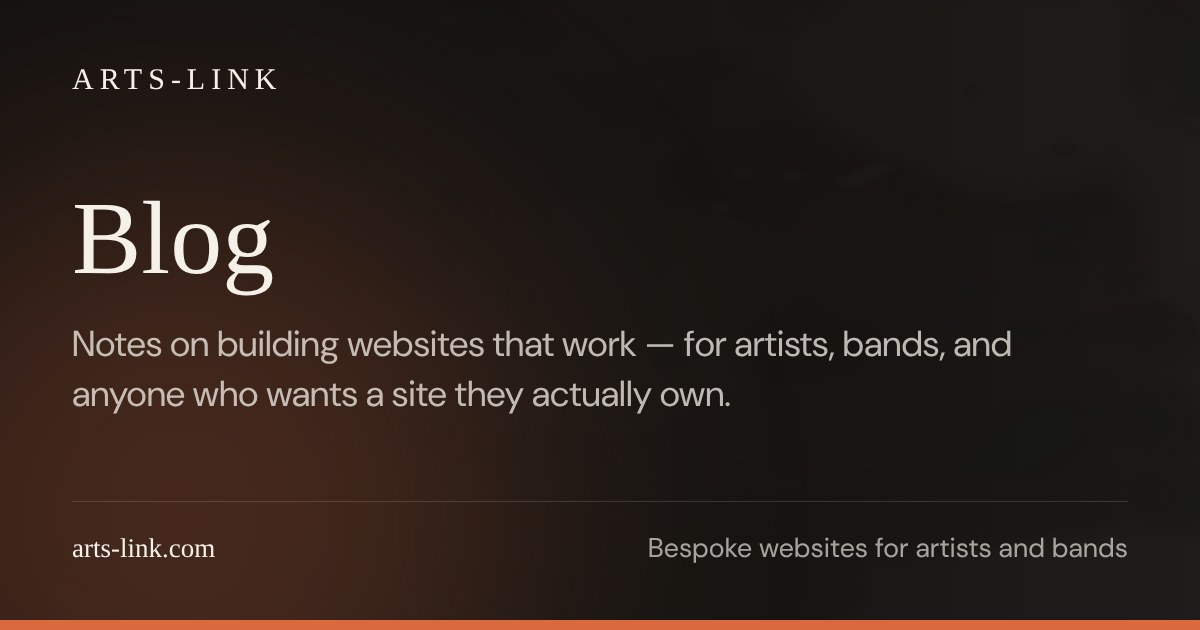
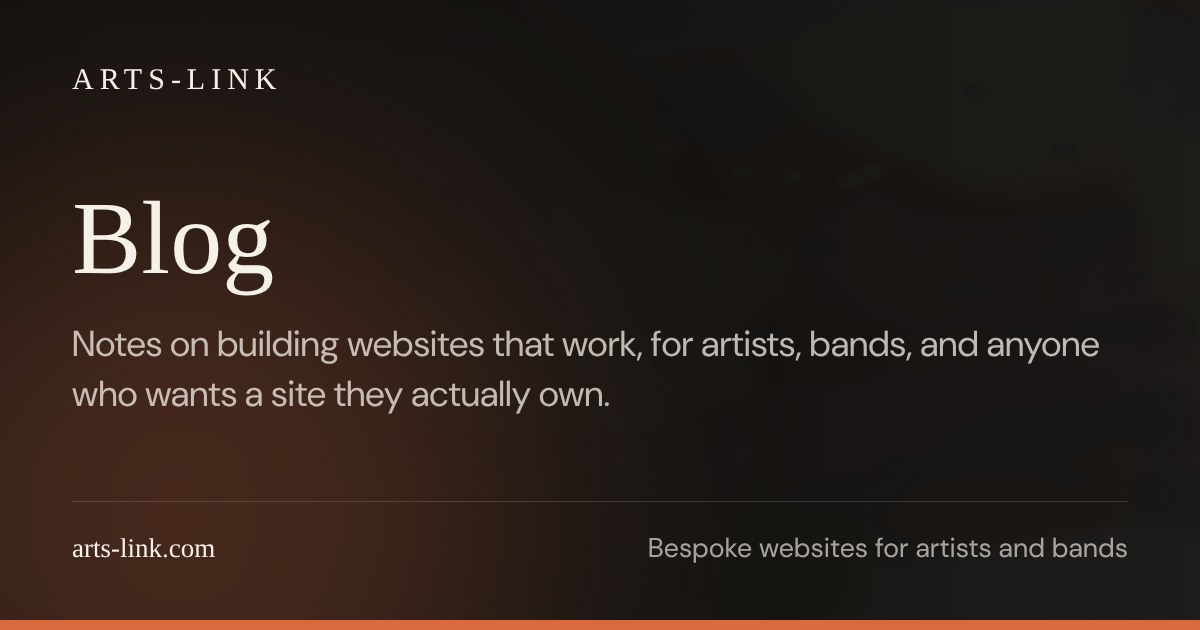
Apply editorial changes from #85 and #86
#85: new descriptions for the blog index, the rescue post and the
invisible-website post. #86: invisible-website opening and audit
paragraph wording. Kept the site-relative link to the rescue post and
"web searches" (two spellings in the issues). Social cards for the three
pages regenerated.

Claude-Session: https://claude.ai/code/session_013bVqEG5CpcB6SgRDSrYpJg

Changed region(s): [[0.0617, 0.6032, 0.6167, 0.6635], [0.5242, 0.5127, 0.925, 0.573]]

diff --git a/content/blog/invisible-website.md b/content/blog/invisible-website.md
@@ -1,7 +1,7 @@
 +++
 title = "Your Website Isn't Broken. It's Just Invisible."
 date = 2026-11-19
-description = "A good-looking website can still be hard to find. The hidden problems that keep artists' sites out of search, AI answers and link previews, and how to fix them."
+description = "A well-built website can still be hard to find. The hidden problems that keep artists' sites out of web searches, AI answers and link previews, and how to fix them."
 # PREVIEW ONLY: published on the PR branch so the Workers preview can show it.
 # BEFORE MERGING: set draft = true and date = 2026-12-10, then run
 # `npm run build && npm run og` (it removes this page's social card).
@@ -10,13 +10,13 @@ draft = false
 hide_cta_block = true
 +++
 
-Picture a website that looks good, loads, and makes its owner happy. Anyone who already knows the address can find everything on it.
+A website may look good, load properly, and work as it should. Anyone who already knows the address can find everything on it.
 
-And for a lot of the people who might be looking for it, it's practically invisible.
+But for a lot of people who may be looking for it, it's practically invisible.
 
-What you see when you open your own site and what a search engine sees are two different things. A site can be beautiful to people and confusing to machines, and these days, machines decide a lot about who finds you.
+What you see when you open your site in a browser and what a search engine sees are two different things. A site can be beautiful to people and confusing to machines, and these days, machines decide a lot about who finds you.
 
-I wrote recently about [websites that need rescuing](/blog/website-rescue/) even though they work fine: the surprise bills, the lapsed domains, the hosts that change hands. This is a different problem: nothing is going wrong, but something isn't happening.
+I wrote recently about [websites that need rescuing](/blog/website-rescue/) even though they work fine. The surprise bills, the lapsed domains, the hosts that change hands. This is a different problem: nothing is going wrong, but something isn't happening.
 
 ---
 
@@ -28,9 +28,9 @@ Then we looked at Google's own reports. Search Console, the free tool Google giv
 
 That label isn't an error message. Google doesn't index every page it sees, and it doesn't explain its choices page by page. But when the pages being passed over are the heart of the site, it's worth a careful look.
 
-The same review turned up a few other things, unrelated to that list and to each other. The site had a sitemap, but it had never been submitted in Search Console, so nobody was watching what Google made of it. The homepage's title and main heading needed work. And a 418 KB font file that nothing on the page used was loading anyway.
+The same review turned up a few other things, unrelated to that list and to each other. The site had a sitemap, but it had never been submitted to Search Console, so nobody was taking note of what Google made of it. The homepage's title and main heading needed work. And a 418 KB font file that wasn't used on the page was loading anyway.
 
-None of it was visible from the front door. I can't tell you yet what the fixes will do; the rebuilt site is too new to judge, and nobody can promise rankings anyway. But each was a specific, checkable thing, and none required changing how the site looks.
+Addressing these issues didn't change anything about how the site looks.
 
 ---
 

diff --git a/content/blog/website-rescue/index.md b/content/blog/website-rescue/index.md
@@ -1,7 +1,7 @@
 +++
 title = "Why Your Website Might Need Rescuing (Even If It Works Fine)"
 date = 2026-11-19
-description = "Surprise renewals, vanished artwork, lapsed domains, hosts that change hands. Real website rescues, and why owning your site matters more than how it looks."
+description = "Vanished artwork, lapsed domains, forgotten automatic renewals, hosts that change hands. Real website rescues, and why owning your site is so important."
 draft = false
 # The closing paragraph is the invitation; skip the shared "Ready to Talk?" block.
 hide_cta_block = true

diff --git a/content/blog/_index.md b/content/blog/_index.md
@@ -1,4 +1,4 @@
 +++
 title = "Blog"
-description = "Notes on building websites that work — for artists, bands, and anyone who wants a site they actually own."
+description = "Notes on building websites that work, for artists, bands, and anyone who wants a site they actually own."
 +++
